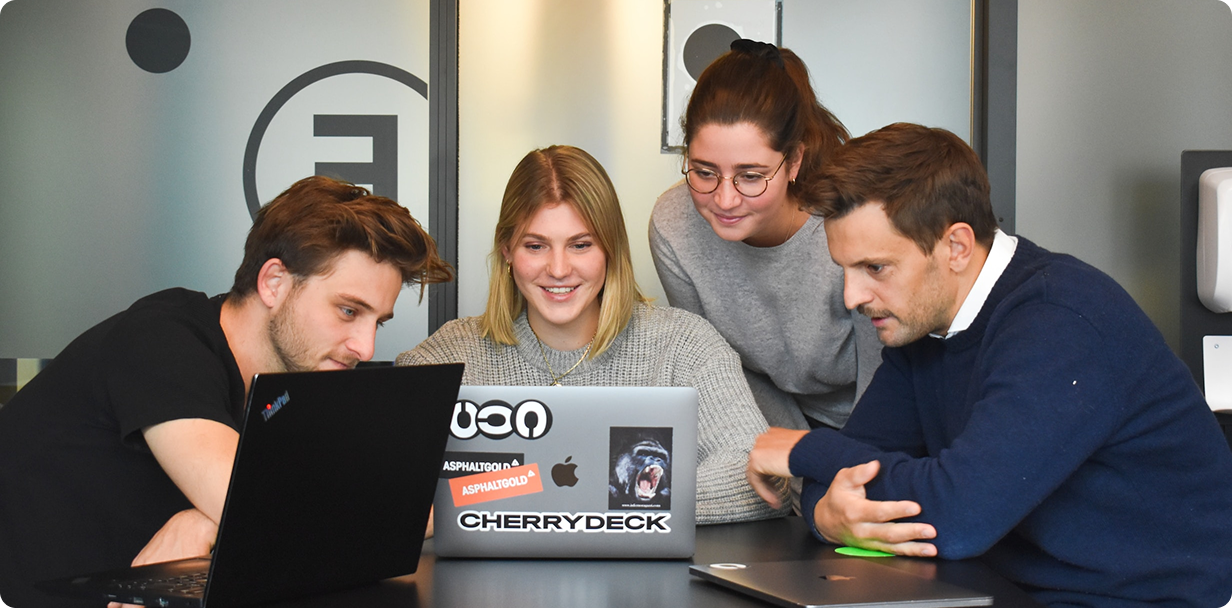
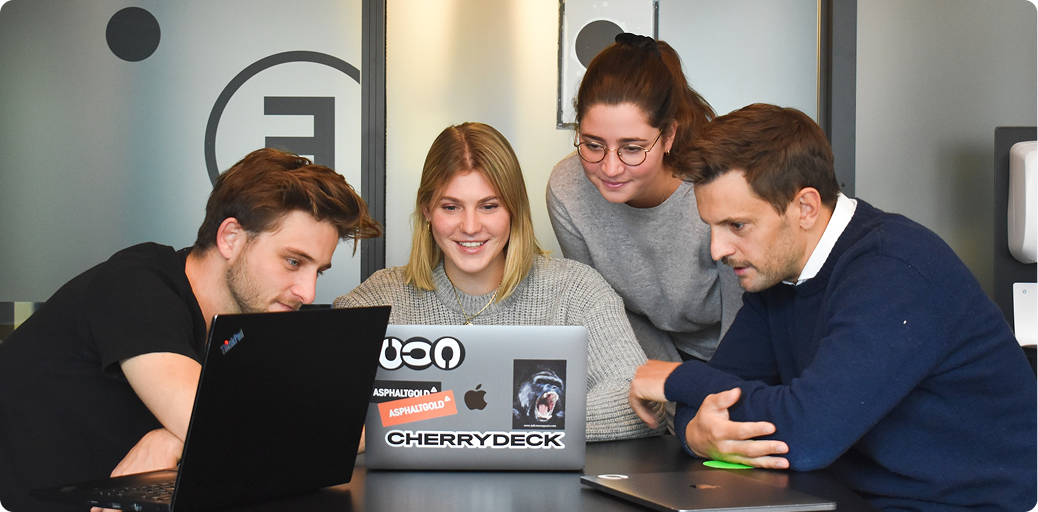
Latest/Changes

diff --git a/src/app/About/page.jsx b/src/app/About/page.jsx
@@ -7,7 +7,7 @@ export default function AboutPage() {
   return (
     <>
       <section>
-        <div className="container mx-auto px-4 md:px-6">
+        <div className="container mx-auto px-4 md:px-6 flex flex-col gap-20">
           <div className="mt-12 md:mt-20">
             <Typography
               variant="heading"
@@ -43,36 +43,62 @@ export default function AboutPage() {
               className="w-full"
             />
           </div>
-                    
-              
-                {cards.map((card, key) => (
-                  <div key={key} >
-                    <div className="bg-[#7C4EE4] p-6 rounded-xl ">
-                      <div className="text-[48px] font-bold text-white">
-                        {card.number}
-                      </div>
-
-                      <div className="mt-4">
-                        <h2 className="text-[24px] font-bold text-white">
-                          {card.title}
-                        </h2>
-                      </div>
-
-                      <div className="mt-4">
-                        <p className="text-white text-[16px] leading-7">
-                          {card.description}
-                        </p>
-                      </div>
-
-                      <button className="mt-6 text-white border-b border-white">
-                        {card.buttonText}
-                      </button>
-                    </div>
+          <div className="grid grid-cols-1 lg:grid-cols-2 gap-5 lg:gap-20">
+            <div className="flex flex-col gap-6">
+              <div>
+                <Typography
+                  variant="paragraph"
+                  className="text-[#666666] font-bold"
+                >
+                  HOW WE WORK
+                </Typography>
+              </div>
+              <div>
+                <Typography
+                  variant="heading"
+                  className="text-[#333333] font-bold text-[24px] lg:text-[48px] leading-9 lg:leading-16"
+                >
+                  I will show you how <br />
+                  our team works
+                </Typography>
+              </div>
+            </div>
+            <div className="flex items-end">
+              <Typography
+                variant="paragraph"
+                className="text-[#666666] font-bold"
+              >
+               Bring to the table win-win market strategies to ensure <br /> perfect articles. 
+              </Typography>
+            </div>
+          </div>
+          <div className="grid grid-cols-1 lg:grid-cols-3 gap-5">
+            {cards.map((card, key) => (
+              <div key={key} className="flex ">
+                <div className="bg-[#7C4EE4] p-6 rounded-lg flex flex-col justify-between items-start" >
+                  <div className="text-[48px] font-bold text-white">
+                    {card.number}
                   </div>
-                ))}
-              
-            
-          
+
+                  <div className="mt-4">
+                    <h2 className="text-[24px] font-bold text-white">
+                      {card.title}
+                    </h2>
+                  </div>
+
+                  <div className="mt-4">
+                    <p className="text-white text-[16px] leading-7">
+                      {card.description}
+                    </p>
+                  </div>
+
+                  <button className="mt-6 text-white border-b border-white">
+                    {card.buttonText}
+                  </button>
+                </div>
+              </div>
+            ))}
+          </div>
         </div>
         {/* <BlogPost blogs={BlogDataRender} /> */}
       </section>

diff --git a/src/app/StaticData/data.js b/src/app/StaticData/data.js
@@ -265,10 +265,10 @@ export const cards = [
   },
    {
     id: 1,
-    number: "01",
-    title: "Brainstorming",
+    number: "02",
+    title: "Analysing",
     description:
-      "Bring to the table win-win survival strategies to ensure proactive domination. At the end of the day, going forward, a new normal that has evolved from generation X is on the runway heading towards a streamlined cloud solution. User generated.",
+      "Capitalize on low hanging fruit to identify a ballpark value added activity to beta test. Override the digital divide with additional clickthroughs from DevOps. Nanotechnology immersion along the information highway will close the loop on focusing solely on the bottom line solely on the bottom line.",
     buttonText: "Learn More",
     theme: {
       background: "#7C4EE4",
@@ -278,10 +278,10 @@ export const cards = [
   },
    {
     id: 1,
-    number: "01",
-    title: "Brainstorming",
+    number: "03",
+    title: "News Publishing",
     description:
-      "Bring to the table win-win survival strategies to ensure proactive domination. At the end of the day, going forward, a new normal that has evolved from generation X is on the runway heading towards a streamlined cloud solution. User generated.",
+      "Leverage agile frameworks to provide a robust synopsis for high level overviews. Iterative approaches to corporate strategy foster collaborative thinking to further the overall value proposition. Organically grow the holistic world view of disruptive innovation via workplace diversity and empowerment.",
     buttonText: "Learn More",
     theme: {
       background: "#7C4EE4",

diff --git a/src/app/Component/FeatureBlog/FeatureBlog.jsx b/src/app/Component/FeatureBlog/FeatureBlog.jsx
@@ -66,8 +66,8 @@ export default function ThirdContainer() {
               variant="paragraph"
               className="
                 text-[#373737]
-                text-[14px]
-                md:text-[11px]
+                text-[11px]
+                lg:text-[14px]
                 leading-relaxed
               "
             >
